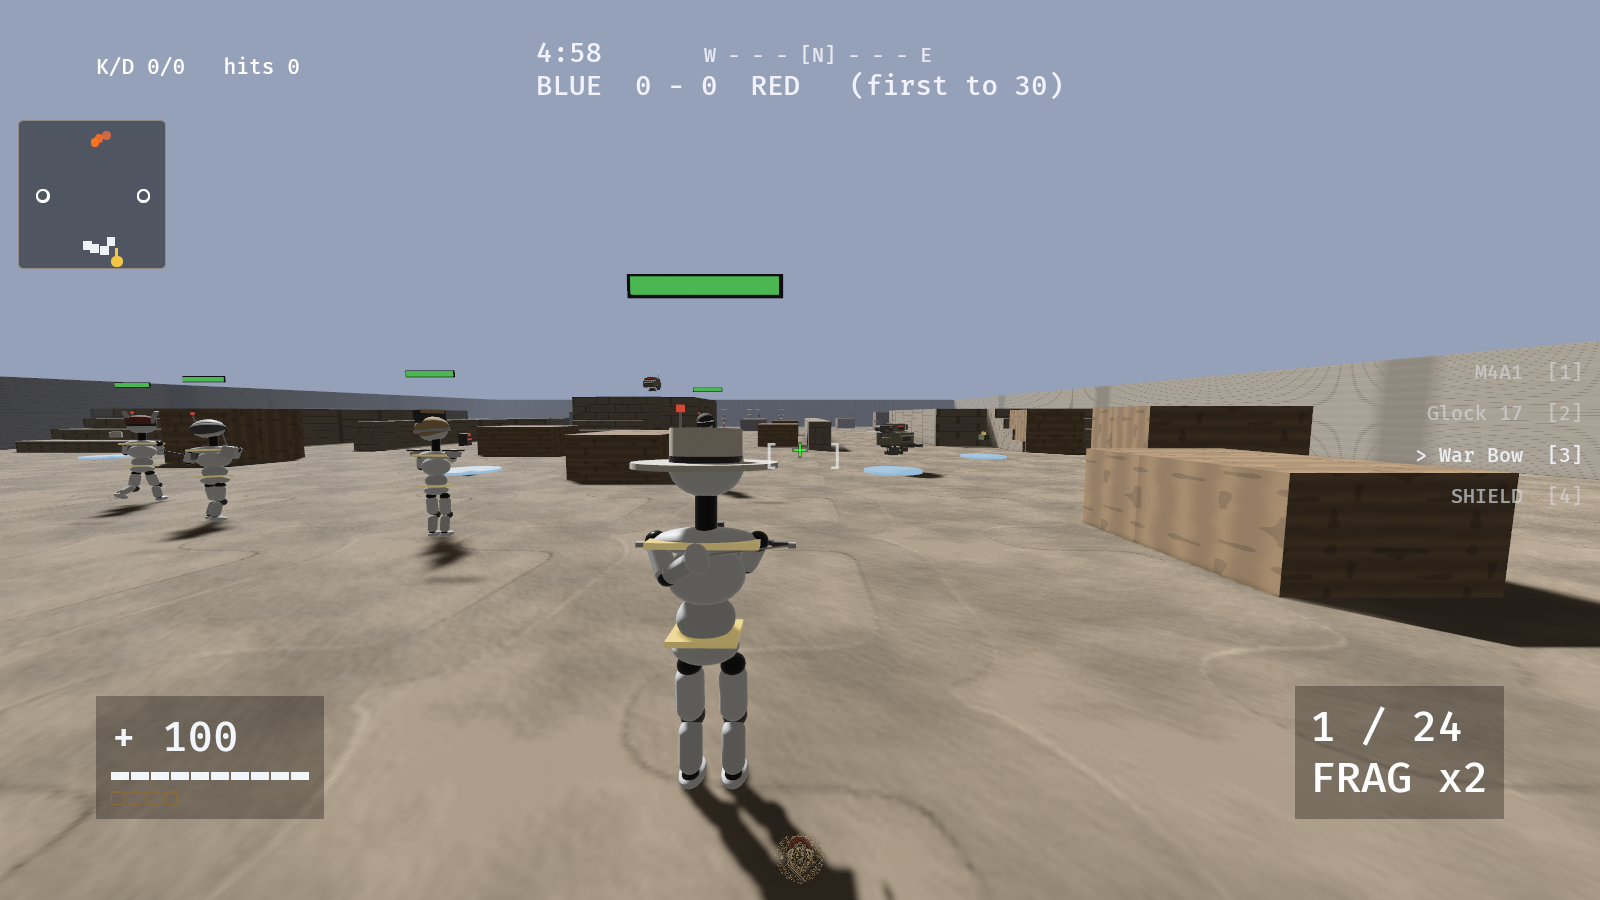
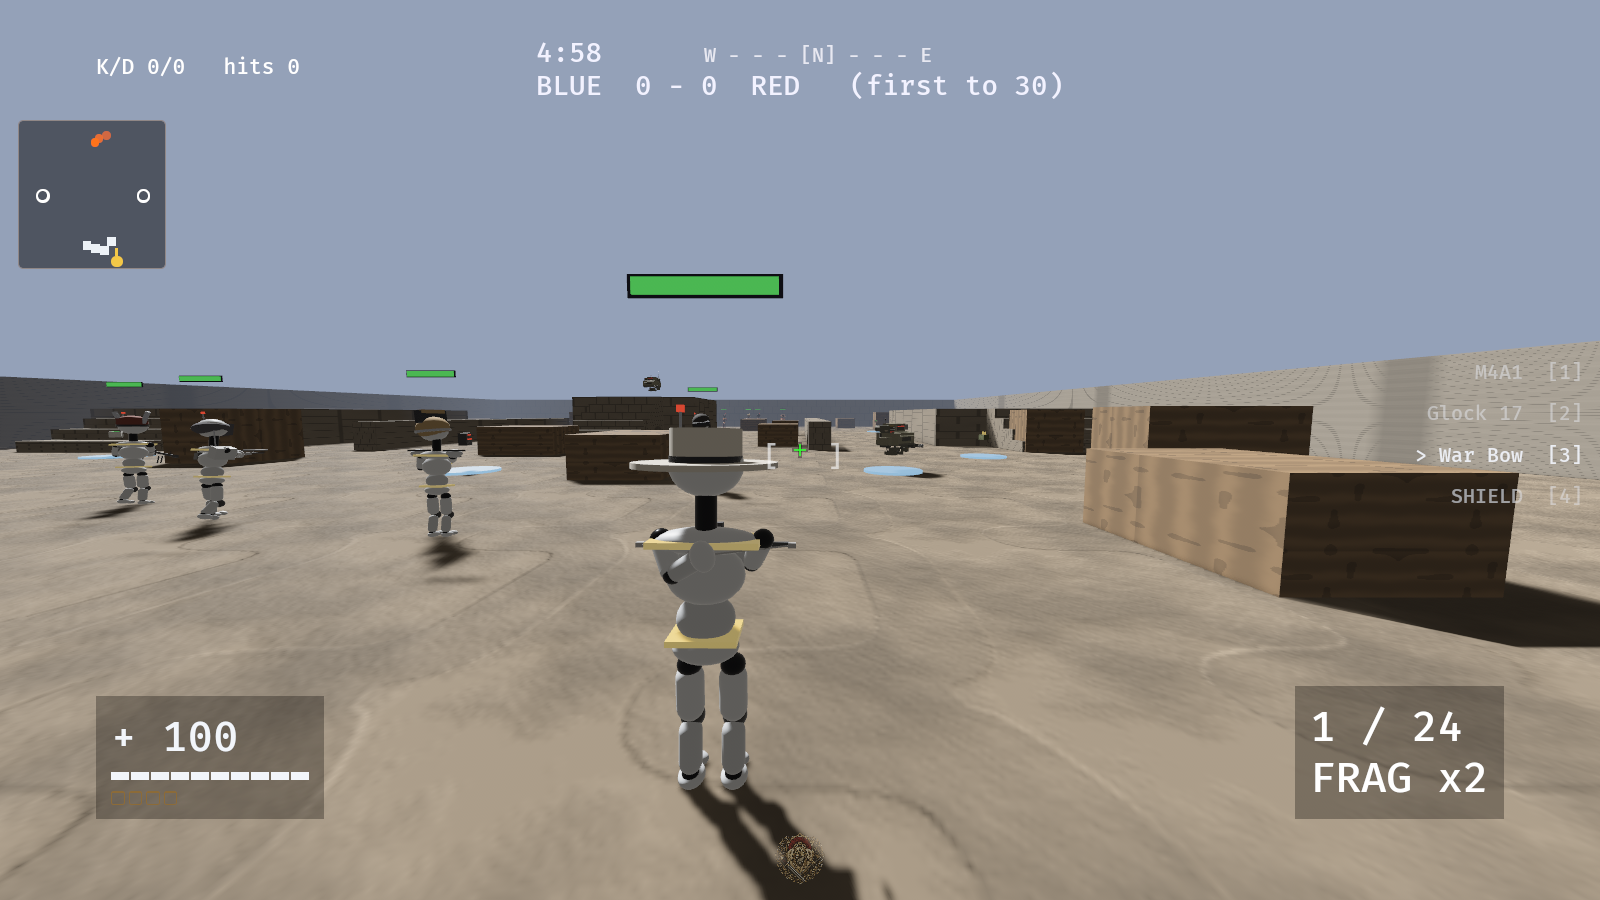
Put the trunk back on the legs
The trunk split shipped broken in the commit before this one. The thorax
kept `WAIST_Y` while its new parent, the lumbar, carried it too, so the
entire upper body sat a full waist above the hips and every soldier on
the field came apart in mid-air.

EVERY TEST PASSED. That is the part worth recording. There are a dozen
rig tests in this file and not one of them noticed, because they all
measure either an ANGLE - hip-shoulder separation, the kinetic chain
ordering, the trunk twist share - or the head BAND, which is derived
from `gait_pose` rather than read back off the transform hierarchy.
Nothing in the suite was watching where the torso actually WAS. A
capture caught it; nothing else could have.

So the fix comes with the guard that was missing.
`thorax_height_is_conserved_across_the_trunk_split` asserts the thing
the split was supposed to preserve: lumbar + thorax must compose to
exactly the height the single trunk segment used to sit at, across hip
bob, crouch and breathing. It is a test about a subtraction, which is
why `thorax_local_y` exists as a named function rather than an inline
expression - an invariant you cannot call is an invariant you cannot
check.

`WAIST_Y` is named for the same reason. The split made 0.63 load-bearing
in two places that have to agree - where the lumbar spawns, and what
`sync_fighters` subtracts when writing the thorax's still-root-space
translation - and two bare literals that must match is one too many.
[…]

diff --git a/engine/crates/jk_tdm/src/main.rs b/engine/crates/jk_tdm/src/main.rs
@@ -804,6 +804,33 @@ fn segment_data(s: Segment) -> SegmentData {
 }
 
 /// §B.4's non-length proportions, as fractions of total height H.
+/// The waist - where the trunk meets the legs, in root space.
+///
+/// Named because §B.2's trunk split made it load-bearing in two places
+/// at once: the lumbar SPAWNS here, and `sync_fighters` has to subtract
+/// it when writing the thorax's own translation, which is still
+/// expressed in root space. Two bare 0.63s that have to agree is one
+/// too many.
+const WAIST_Y: f32 = 0.63;
+
+/// The thorax's LOCAL height under the lumbar, given the root-space
+/// height it needs to end up at.
+///
+/// A two-line function for a subtraction, and it earns its place: the
+/// first version of the trunk split left the thorax carrying `WAIST_Y`
+/// while its new parent carried it too, which lifted the entire upper
+/// body a full waist off the legs. The rig visibly came apart in a
+/// capture and NOT ONE test failed, because every rig test in this file
+/// measures either an ANGLE (separation, the kinetic chain) or the head
+/// BAND (derived from `gait_pose`, not from the transform hierarchy) -
+/// and neither notices a torso floating in the air.
+///
+/// `thorax_height_is_conserved_across_the_trunk_split` is the guard that
+/// was missing.
+fn thorax_local_y(hip_y: f32, crouch_dip: f32, breath: f32) -> f32 {
+    hip_y - WAIST_Y - crouch_dip + breath
+}
+
 /// §B.2: how much of the trunk's twist the LUMBAR carries, the thorax
 /// taking the remainder.
 ///
@@ -8003,8 +8030,20 @@ fn spawn_soldier_body(
     // is what makes this a pure insertion: every shell, socket, arm and
     // head below hangs off the thorax at the local offsets it always had,
     // so an unposed rig is untouched geometry.
+    // The LUMBAR carries the waist height and the THORAX sits at identity
+    // on top of it - so both twist about the waist, exactly where the
+    // single trunk segment used to.
+    //
+    // Note which one holds `WAIST_Y`. `sync_fighters` writes the thorax's
+    // translation every frame (hip bob, sway, breathing), and that write
+    // is expressed in ROOT space because it always was. Leaving the 0.63
+    // on the thorax as well would add the waist height twice and lift the
+    // whole upper body a full waist off the legs - which is exactly what
+    // the first version of this did, and it is invisible to every test in
+    // this file because they all measure the head band and the separation
+    // ANGLE, neither of which cares where the torso is.
     let lumbar = commands
-        .spawn((Transform::from_xyz(0.0, 0.63, 0.0), Visibility::default()))
+        .spawn((Transform::from_xyz(0.0, WAIST_Y, 0.0), Visibility::default()))
         .set_parent(root)
         .id();
     let torso = commands
@@ -11599,8 +11638,15 @@ fn sync_fighters(
             // (net ±1.5° - which is also all the arm swing an armed
             // carry gets: the upper body moves through the spine, not
             // the shoulders)
-            t.translation.y =
-                hip_y - if f.crouch && !rolling { 0.12 } else { 0.0 } + breath;
+            // §B.2: MINUS the waist, because the thorax now hangs off the
+            // lumbar and the lumbar already carries it. `hip_y` is a
+            // root-space height and has to stay one - it is the same
+            // number the legs are posed with.
+            t.translation.y = thorax_local_y(
+                hip_y,
+                if f.crouch && !rolling { 0.12 } else { 0.0 },
+                breath,
+            );
             // amplitudes tuned UP so the gait reads from the 2.6 m boom
             t.translation.x = 0.048 * rig.phase.sin() * amp + wshift;
             // §5.2: `torso_aim` puts the shoulders back on the aim that
@@ -19766,6 +19812,50 @@ mod segment_tests {
         assert!(
             walk < peak * 0.5,
             "a walk must not toe off like a sprint: {walk} vs {peak}"
+        );
+    }
+
+    /// §B.2: inserting the lumbar must not MOVE anything.
+    ///
+    /// This test exists because its absence cost a broken build. The
+    /// first trunk split left `WAIST_Y` on the thorax while its new
+    /// parent, the lumbar, also carried it - so the upper body sat a full
+    /// waist above the legs and the soldier came apart in mid-air. Every
+    /// rig test in this file passed: they measure ANGLES (separation, the
+    /// kinetic chain, the trunk twist above) or the head BAND, which is
+    /// derived from `gait_pose` rather than read back off the transform
+    /// hierarchy. Nothing was watching where the torso actually WAS.
+    ///
+    /// The claim is composition: lumbar + thorax must land exactly where
+    /// the single trunk segment used to.
+    #[test]
+    fn thorax_height_is_conserved_across_the_trunk_split() {
+        for hip_y in [0.50_f32, 0.63, 0.71] {
+            for crouch in [0.0_f32, 0.12] {
+                for breath in [-0.004_f32, 0.0, 0.004] {
+                    // what the SINGLE trunk segment used to be set to, in
+                    // root space - the expression this replaced, verbatim
+                    let before = hip_y - crouch + breath;
+                    // and what the two segments now compose to
+                    let after = WAIST_Y + thorax_local_y(hip_y, crouch, breath);
+                    assert!(
+                        (after - before).abs() < 1e-6,
+                        "the trunk moved: {before} -> {after} \
+                         (hip {hip_y} crouch {crouch} breath {breath})"
+                    );
+                }
+            }
+        }
+        // and the waist really is where the legs are hung from, or the
+        // subtraction is against the wrong number
+        assert!(
+            (WAIST_Y - 0.63).abs() < 1e-6,
+            "WAIST_Y must match the height the thighs spawn at"
+        );
+        // a standing fighter's thorax sits AT the waist - local zero
+        assert!(
+            thorax_local_y(WAIST_Y, 0.0, 0.0).abs() < 1e-6,
+            "an unposed thorax must sit exactly on its own parent"
         );
     }
 
